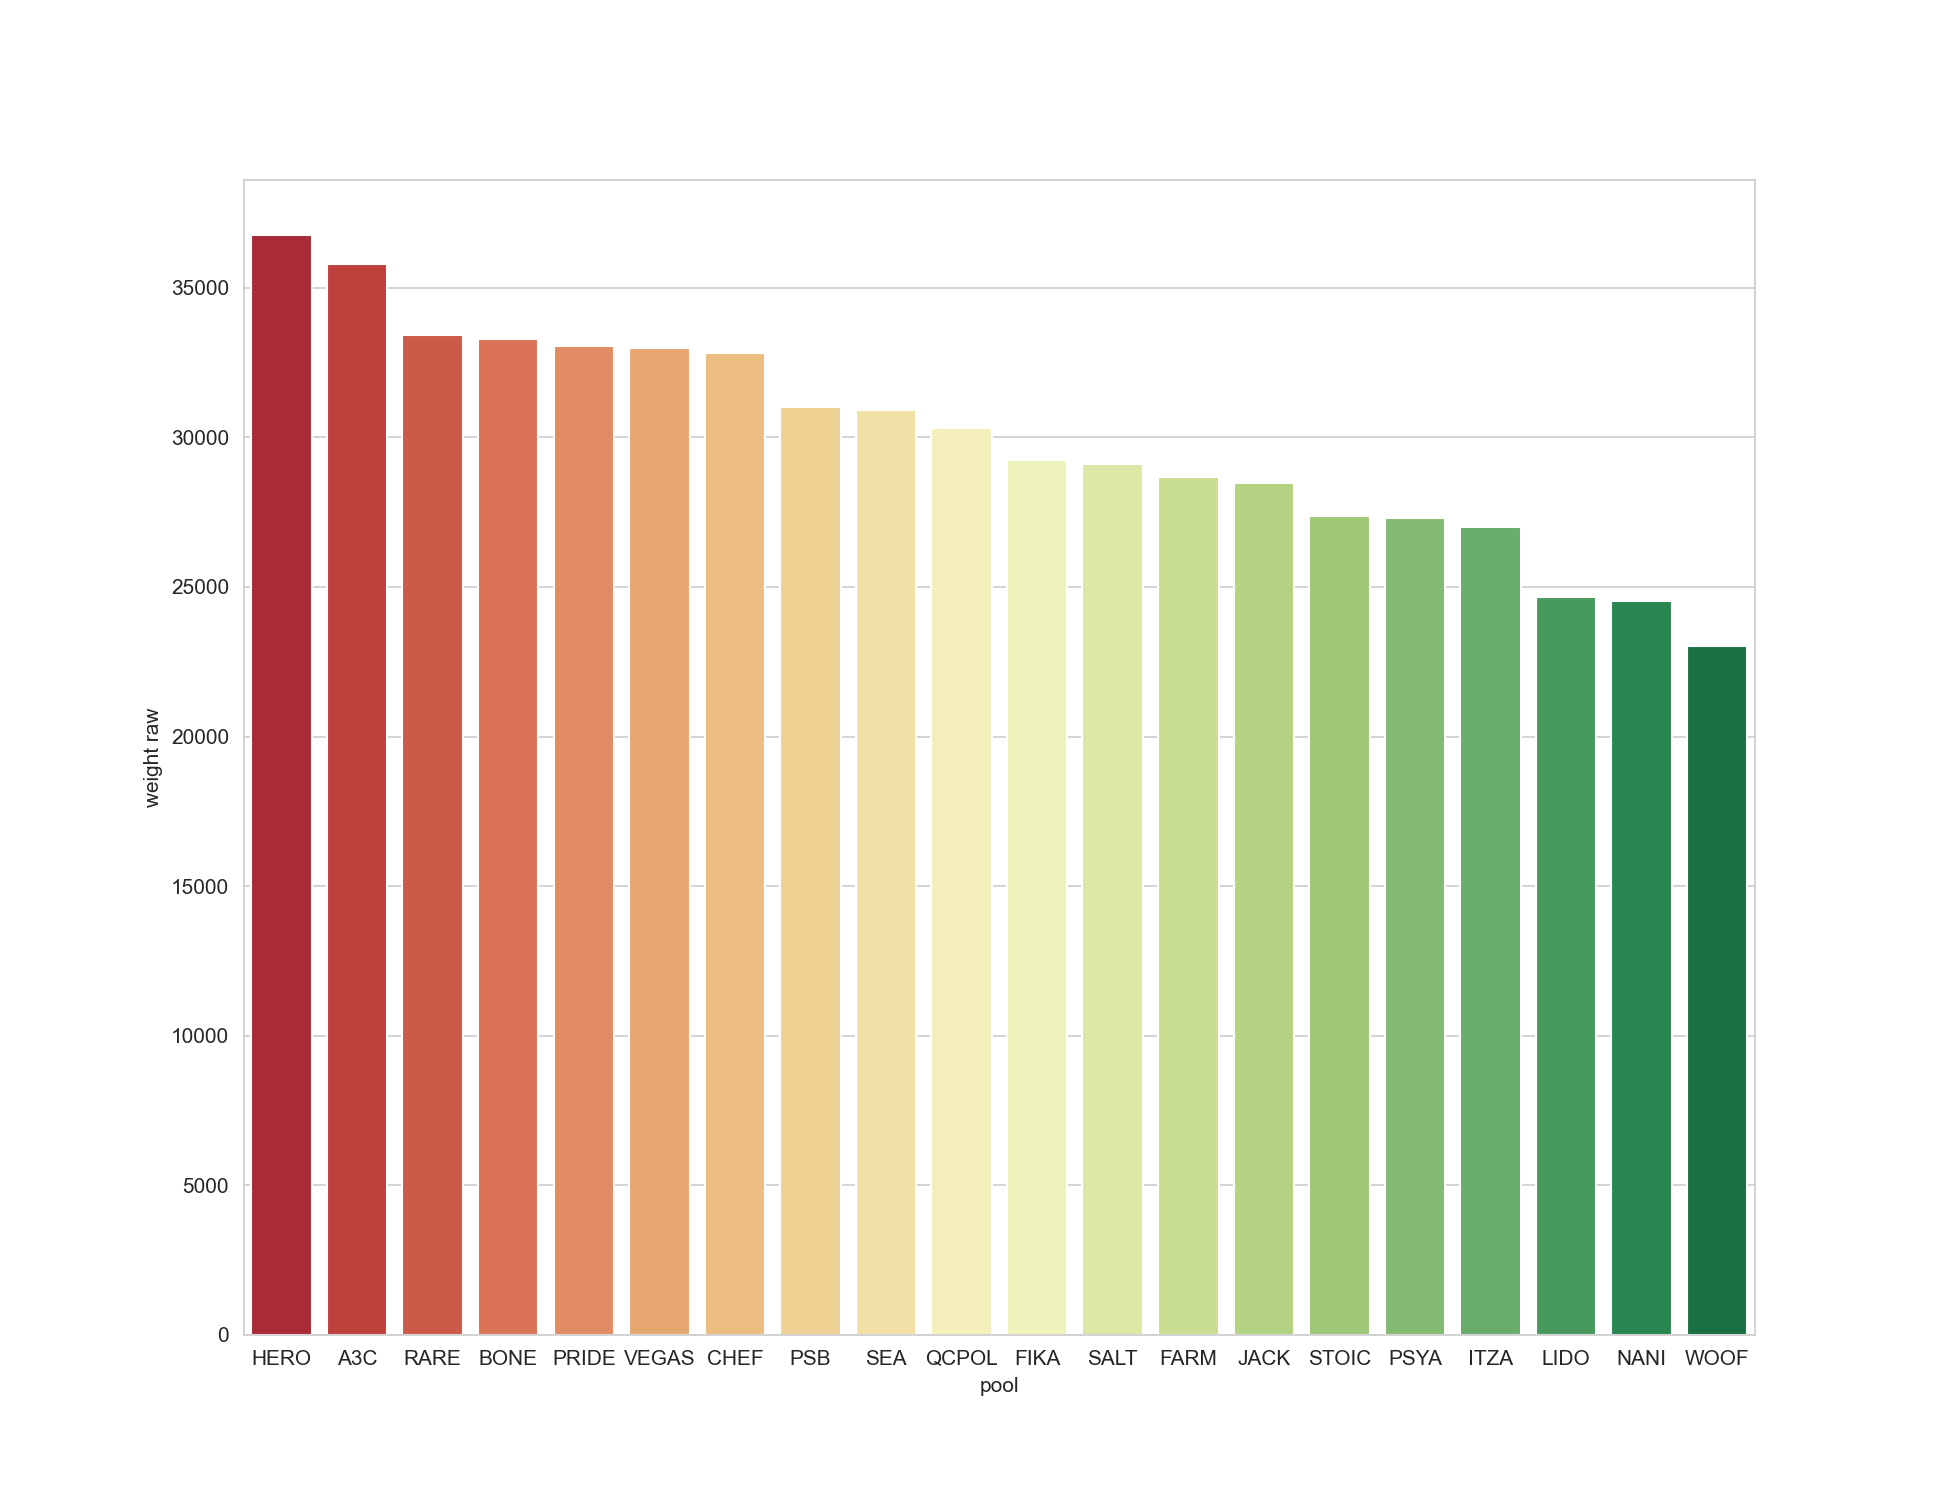
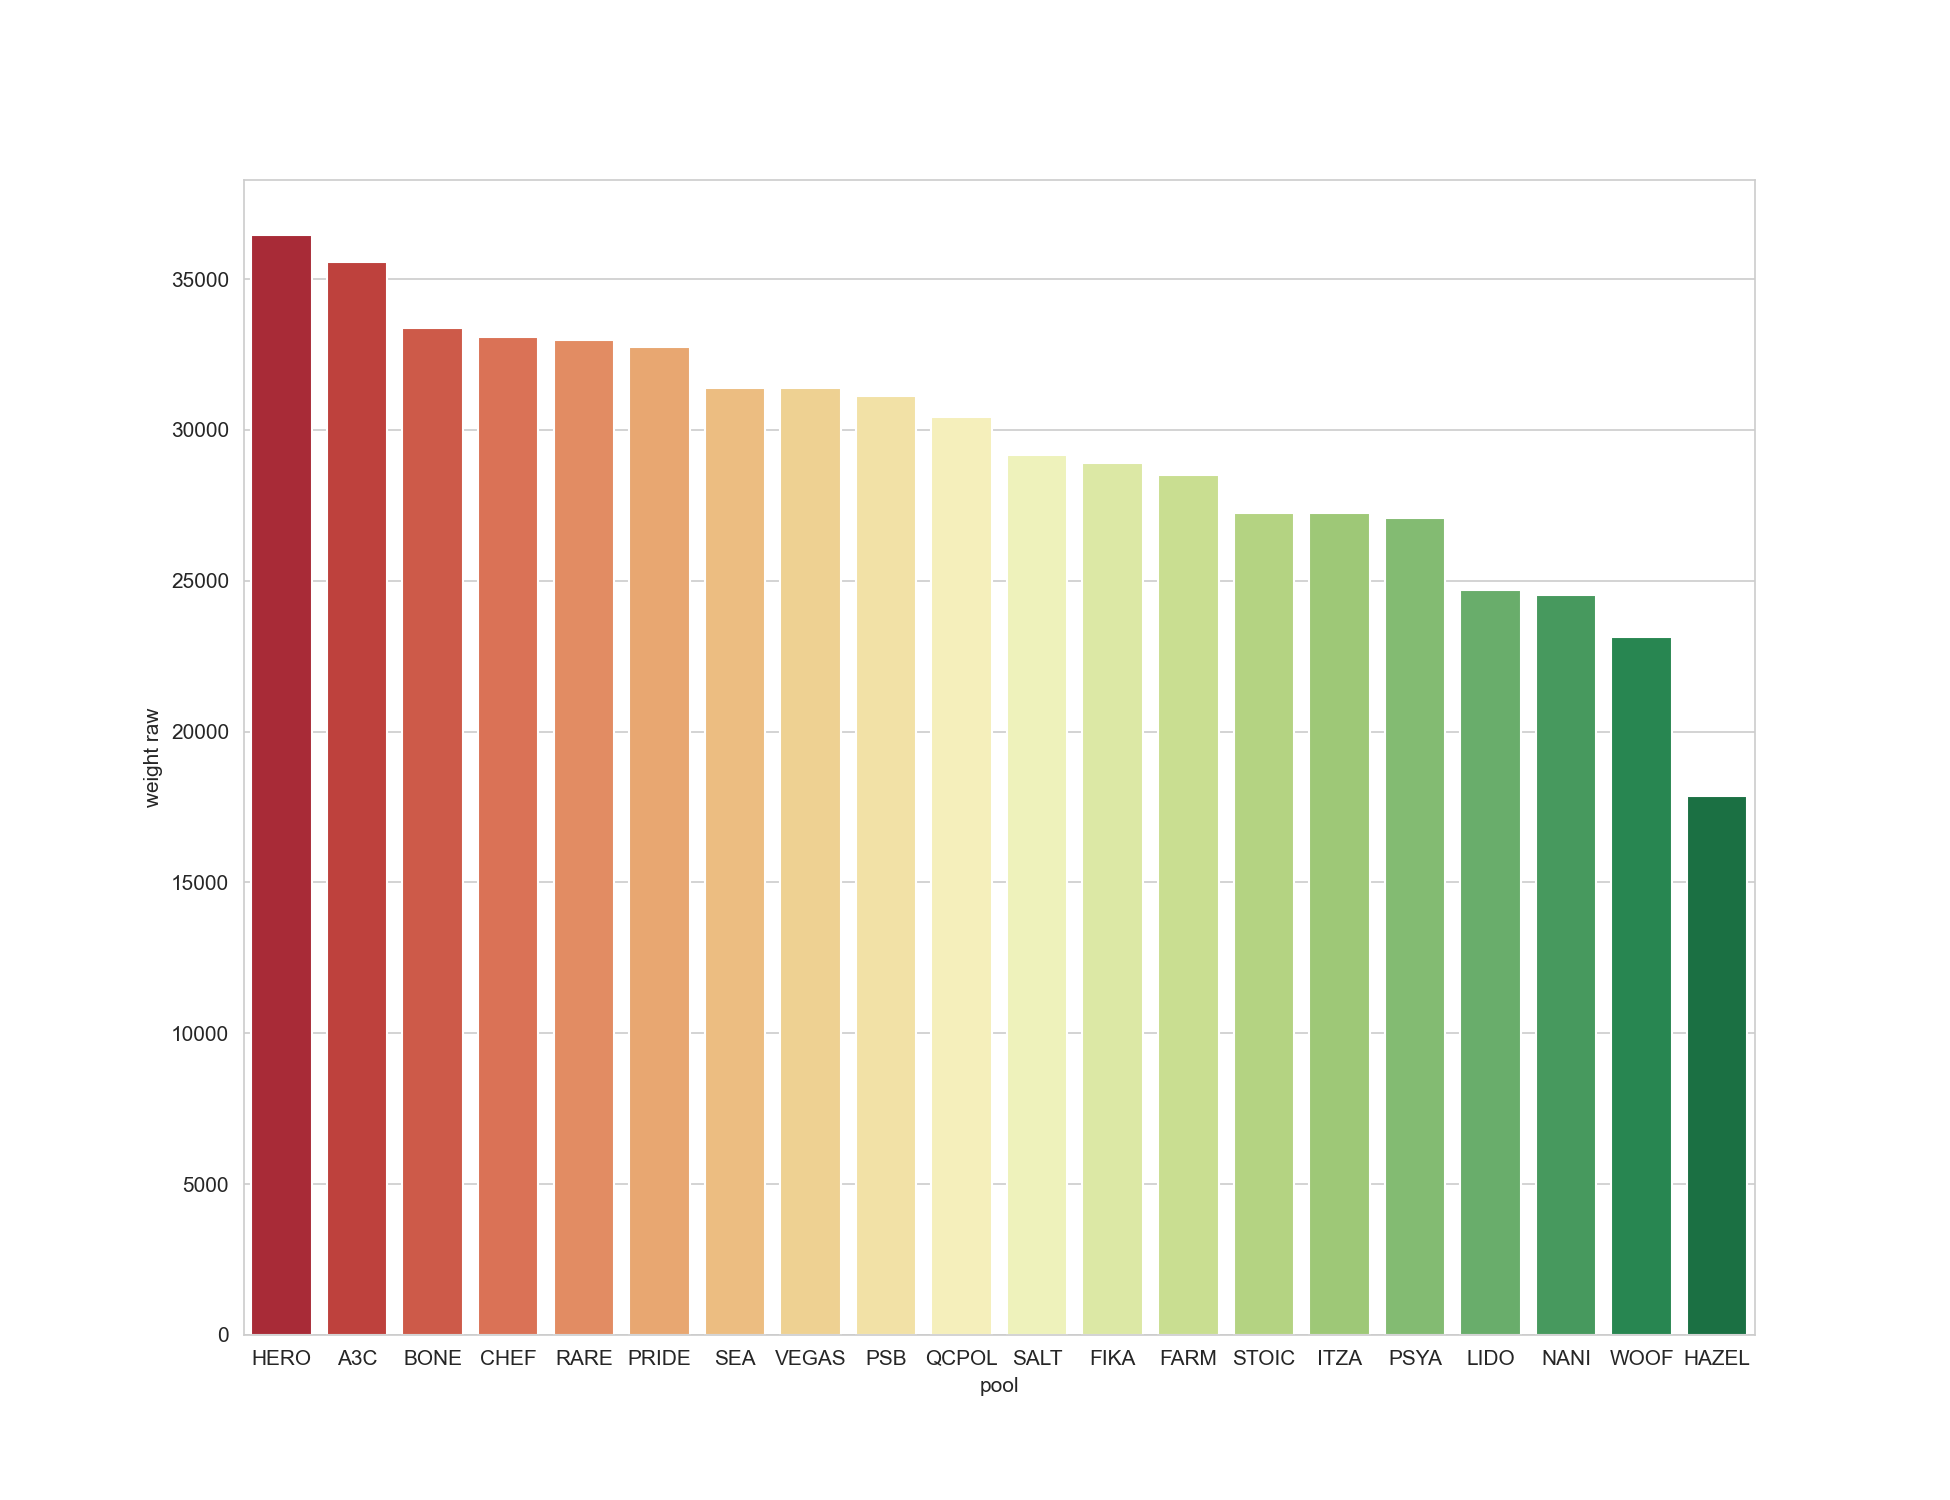
updated stats included wrfgs

diff --git a/index.html b/index.html
@@ -131,7 +131,8 @@ import time as t
 import js
 from js import document
 
-
+WRFGS = {"pool_tag": "SEA","pool_id_bech_32":"pool1dmnyhw9uthknzcq4q6pwdc4vtfxz5zzrvd9eg432u60lzl959tw"}
+SEA = {"pool_tag": "SEA","pool_id_bech_32":"pool17xh922cr9skc0fqk7sr8at6xx6eluh5qyv9p7ca2x0mtc3st0mz"}
 SEA = {"pool_tag": "SEA","pool_id_bech_32":"pool17xh922cr9skc0fqk7sr8at6xx6eluh5qyv9p7ca2x0mtc3st0mz"}
 A3C = {"pool_tag": "A3C","pool_id_bech_32":"pool1zkdaju2rjefa52uh6yh6etsxla0x6aqs6p6wm245y5szk7k3msd"}
 BONE = {"pool_tag": "BONE","pool_id_bech_32":"pool1j742gcsul7u8c05rsqmkgpkvj5qadj0pew69nctu6crqy9wjjn4"}
@@ -226,7 +227,7 @@ def main():
 main()
 
 
-pools = [STOIC,RARE,SALT, CHEF, QCPOL, ITZA, SEA, WOOF, HERO, FARM, PSYA, PSB, A3C, BONE, PRIDE, VEGAS, HAZEL, FIKA, LIDO, NANI]
+pools = [WRFGS, STOIC,RARE,SALT, CHEF, QCPOL, ITZA, SEA, WOOF, HERO, FARM, PSYA, PSB, A3C, BONE, PRIDE, VEGAS, HAZEL, FIKA, LIDO, NANI]
 
 stake_dict = {}
 
